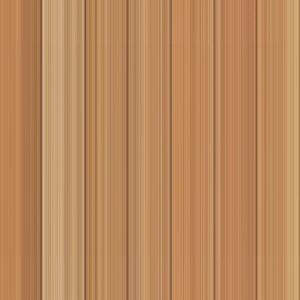
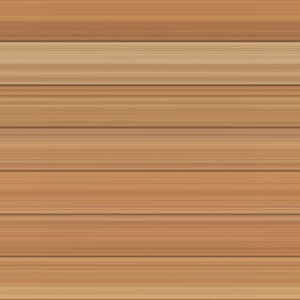
design

Changed region(s): [[0.0, 0.0, 1.0, 1.0]]

diff --git a/template/index.html b/template/index.html
@@ -1,35 +1,38 @@
 <!DOCTYPE html>
 <html lang="en">
-<head>
-  <meta charset="utf-8" />
+	<head>
+		<meta charset="utf-8" />
 
-  <title>{{ title }}</title>
-  <meta name="description" content="" />
-  <meta name="author" content="Funambu" />
+		<title>{{ title }}</title>
+		<meta name="description" content="" />
+		<meta name="author" content="Funambu" />
 
-  <meta name="viewport" content="width=device-width; initial-scale=1.0" />
+		<meta name="viewport" content="width=device-width; initial-scale=1.0" />
 
-  <link rel="stylesheet" href="/css/style-home.css"></link>
+		<link rel="stylesheet" href="/css/style-home.css">
+		</link>
 
+		<!-- Replace favicon.ico & apple-touch-icon.png in the root of your domain and delete these references -->
+		<link rel="shortcut icon" href="/favicon.ico" />
+		<link rel="apple-touch-icon" href="/apple-touch-icon.png" />
+	</head>
 
-  <!-- Replace favicon.ico & apple-touch-icon.png in the root of your domain and delete these references -->
-  <link rel="shortcut icon" href="/favicon.ico" />
-  <link rel="apple-touch-icon" href="/apple-touch-icon.png" />
-</head>
+	<body>
+		<header>
+			<h1>TV Dictionnary</h1>
+		</header>
 
-<body>
-    <header>
-      <h1>TV Dictionnary</h1>
-    </header>
-
-    <div id="slate">
-    	<form action="/" method="post">
-    		<input type="submit" value="Start a game" id="start"/>
-    	</form>
-    </div>
-
-    <footer>
-     <p>HackDay Paris - &copy Les Telechackers</p>
-    </footer>
-</body>
+		<div id="slate-border">
+			<div id="slate">
+				<form action="/" method="post">
+					<input type="submit" value="Start a game" id="start"/>
+				</form>
+			</div>
+		</div>
+		<footer>
+			<p>
+				HackDay Paris - &copy Les Telechackers
+			</p>
+		</footer>
+	</body>
 </html>

diff --git a/css/style-home.css b/css/style-home.css
@@ -1,41 +1,51 @@
 body {
-	background-color:#9FB4CC;
+	background-color:#CCCC9F;
 	color:#FFF8E3;
 }
 
-#slate {
-	background-color: #33332D;
-	border-width:2em;
-	border-top-image :url('/images/wood4.jpg') 30 30 round;
-	border-right-image :url('/images/wood4.jpg') 30 30 round;
-	border-bottom-image : url('/images/wood4.jpg') 30 30 round;
-	border-left-image :url('/images/wood4.jpg') 30 30 round; 
-	border-radius: 1em;
+#slate-border {
+	background: url('/images/wood4.jpg');
+	width:50em;
+	height:34em;
+	border-radius:2em;
 	position: absolute;
 	margin: auto;
 	top: 0;
 	bottom: 0;
 	left: 0;
 	right: 0;
-	width:800px;
-	height:400px;
 }
 
-#start{
-	height:3em;
-	width:6em;
-	postition:absolute;
+#slate {
+	background-color: #33332D;
+	position: absolute;
 	margin: auto;
 	top: 0;
 	bottom: 0;
 	left: 0;
 	right: 0;
+	width:45em;
+	height:30em;
+}
+
+#start{
+	height:3em;
+	width:8em;
+	position:absolute;
+	margin: auto;
+	top: 0;
+	bottom: 0;
+	left: 0;
+	right: 0;
+	display:block;
 }
 
 
 footer {
 	position:absolute;
 	bottom:0px;
+	left:0;
+	right:0;
 	border-top-left-radius: 10px;
 	border-top-right-radius:10px;
 	width:800px;
